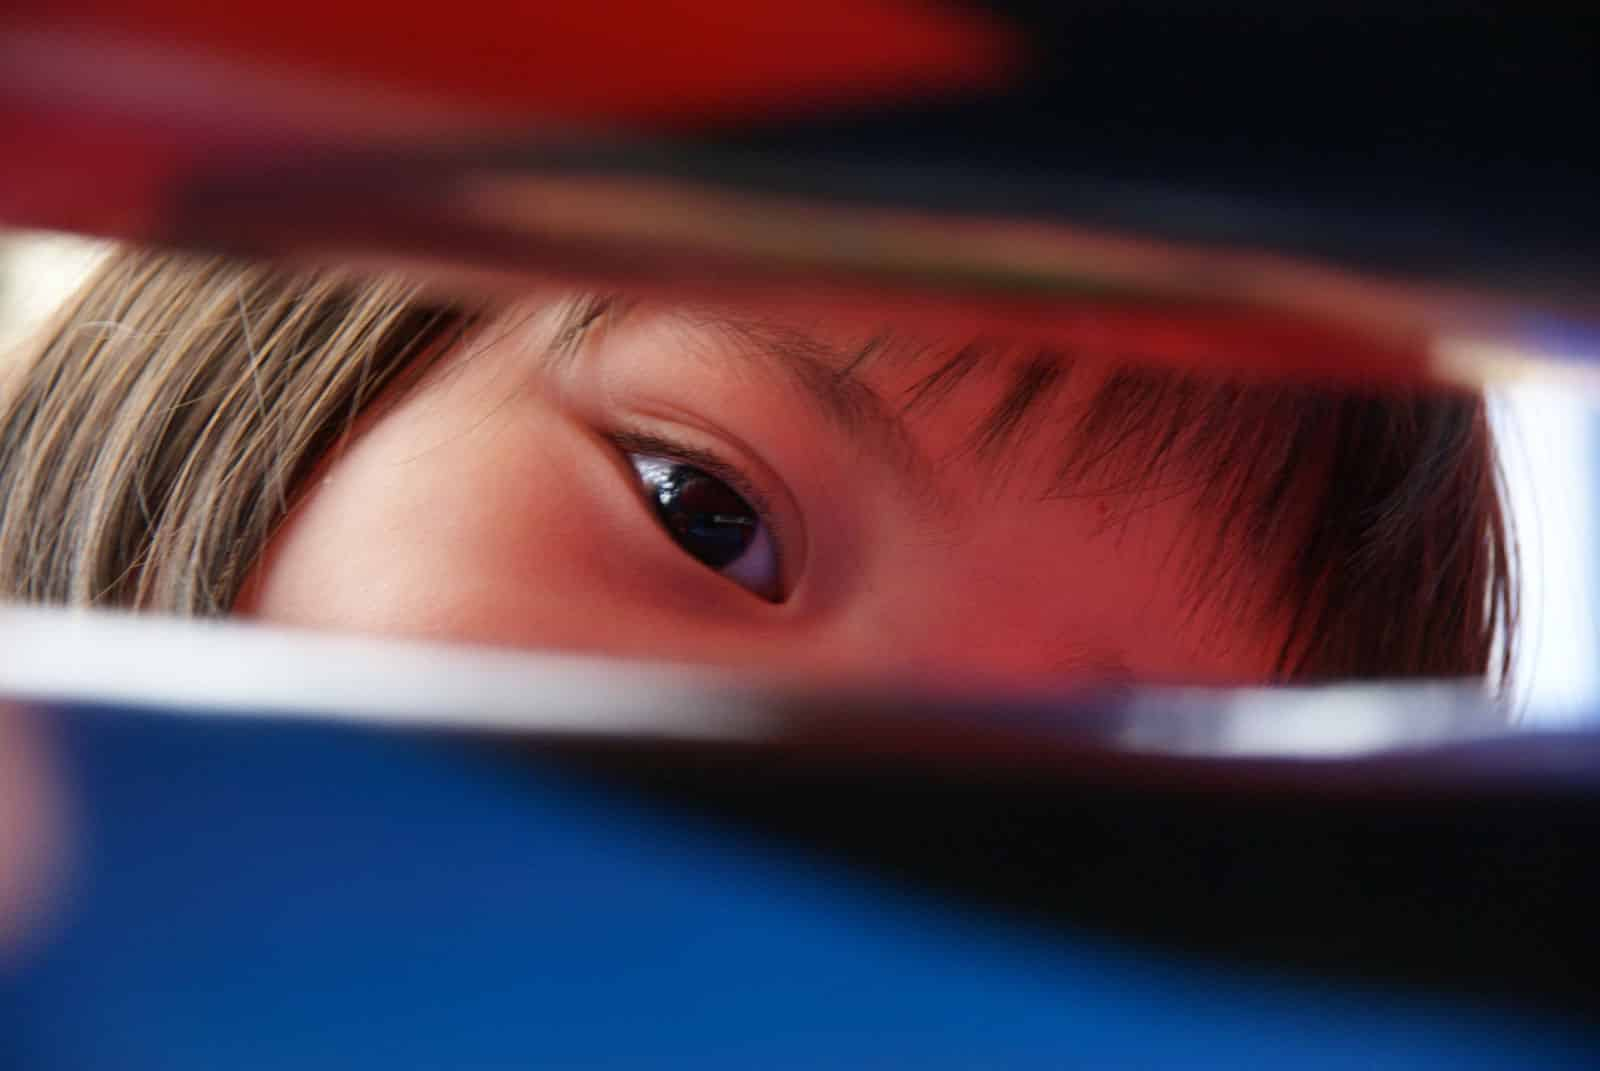
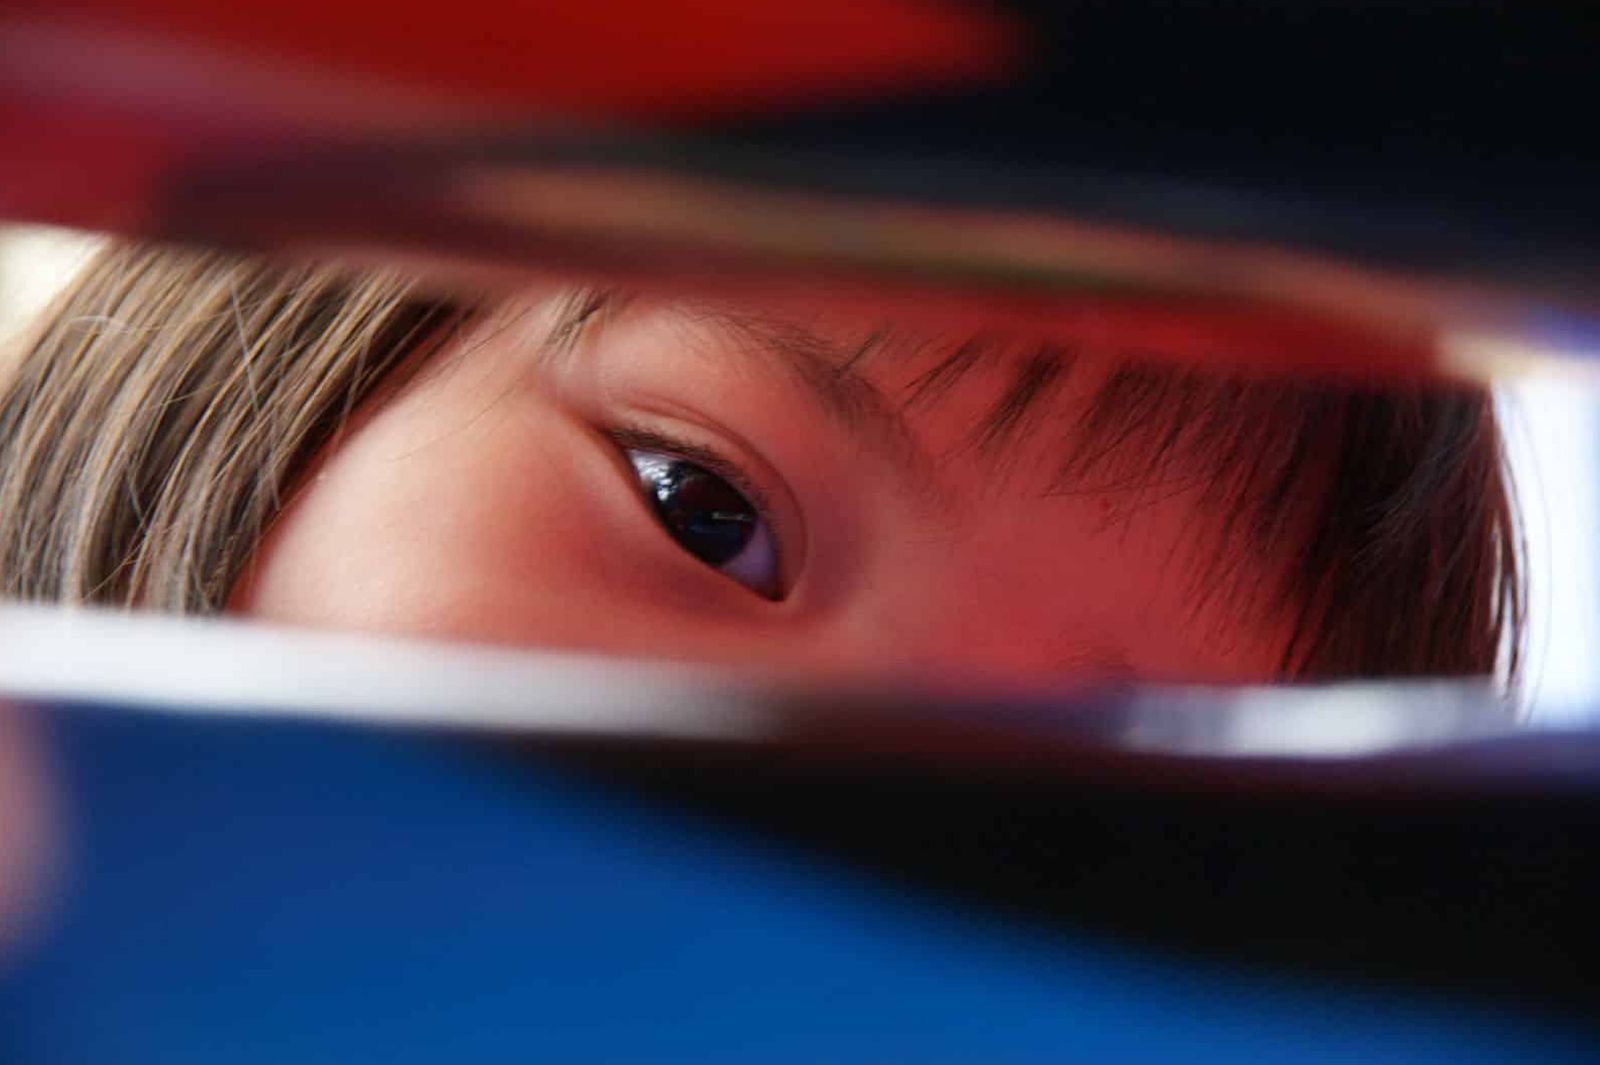
Update to Main Carousel Styling
Remove the min-heihgt on dvices smaller that 1024
Change cropping of the Carousel images to have a more consistent image scaling on all the slides (Size 1600 x 1065px

diff --git a/_sass/custom.scss b/_sass/custom.scss
@@ -615,7 +615,7 @@ input[name="give_a_hug_donation_amount"][disabled="true"] + label {
     padding: 1em 2.5rem 3rem 2.5rem;
   }
   .carousel-image {
-    min-height: 30vh;
+//     min-height: 30vh;
   }
   #post-side-by-side-layout-container {
     flex-direction: column;
